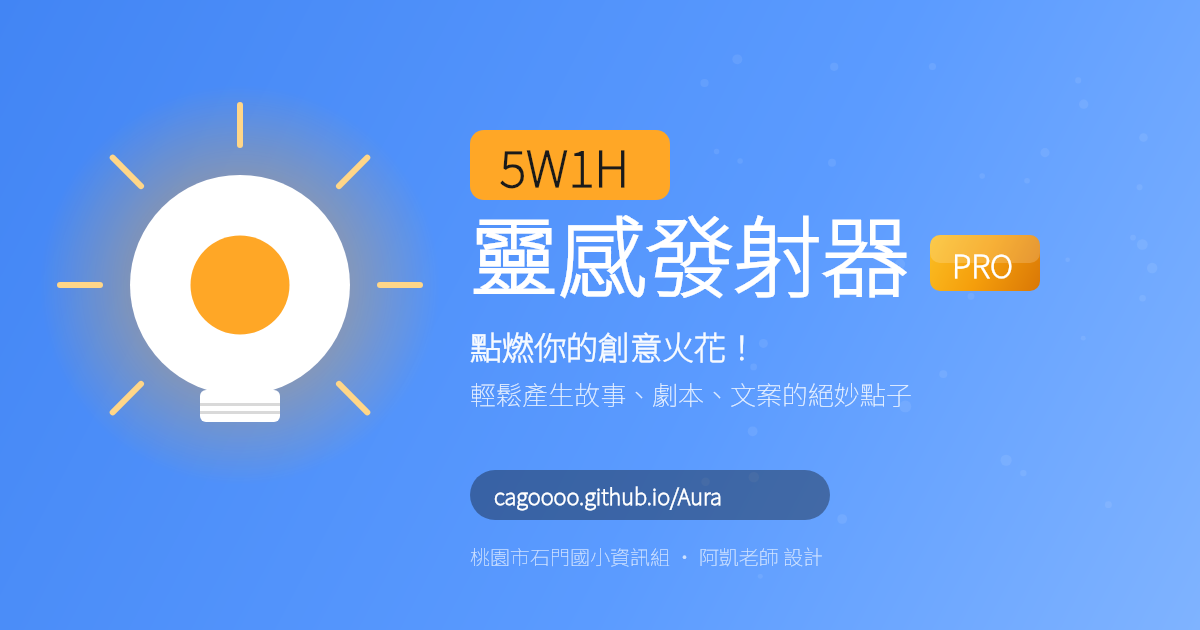
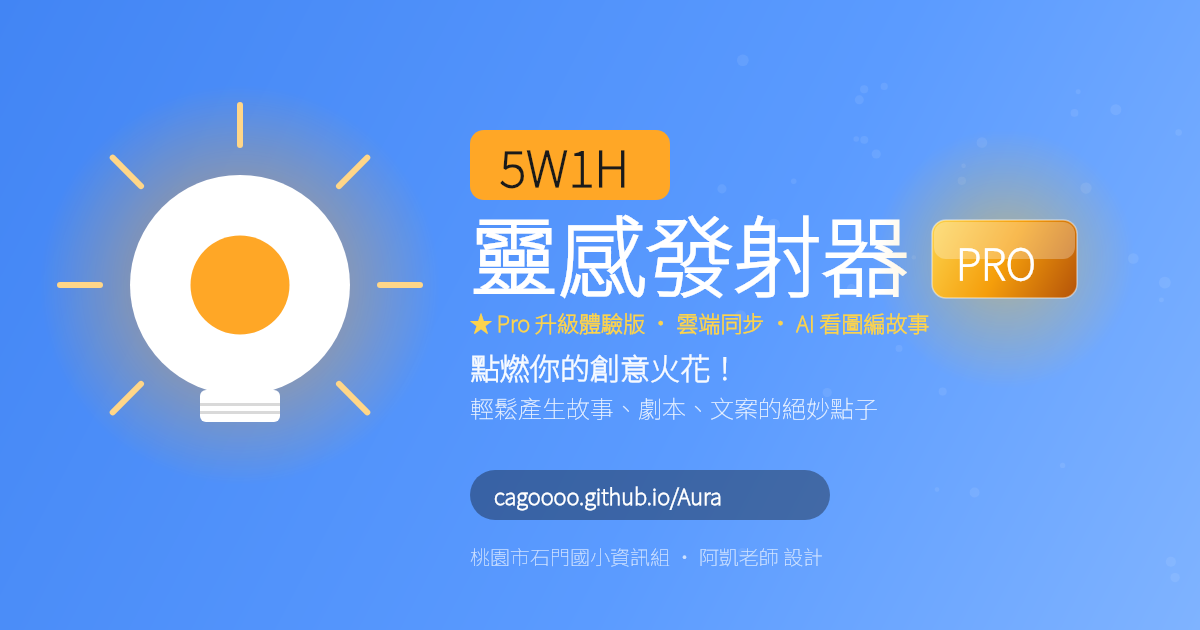
🎨 OG 預覽圖 v3：強化 PRO 徽章 + 升級副標
OG image 改良：
- PRO 徽章變大（145×78，原 110×56）
- 加溫暖光暈（radial gradient halo 圍繞徽章 130px 半徑）
- 漸層改 amber-300→500→700（深淺更明顯）
- 加 1.5px 半透明白邊增加質感
- 上半部 shine highlight 強化（28% 不透明）
- PRO 字級 32→42px

新增 Pro 副標（緊貼主標下方）：
- 文字：'★ Pro 升級體驗版 · 雲端同步 · AI 看圖編故事'
- 金色 amber-300 (#FCD34D)，700 字重
- 把核心 Pro 賣點濃縮在主視覺第二行

字型 subset 補上：
- 新看圖編 / 跨裝置同步 / 雲端永久分享連結 等字
- ★ ◆ ● ✦ 幾何符號（emoji 不在 Noto Sans TC，改用幾何符號）

metadata 描述也更新：
'✨ Pro 升級體驗版上線！全新 AI 看圖編故事、雲端跨裝置同步、永久分享連結 — 隨時隨地點燃你的創意火花...'
LINE/FB 卡片描述欄會帶到。

Cache-bust:
git sha 透過 NEXT_PUBLIC_BUILD_ID 注入 og:image?v=<sha>，部署後新
URL 會強制 LINE/FB CDN 重新抓圖。

Changed region(s): [[0.37, 0.2413, 0.925, 0.6635]]

diff --git a/src/app/layout.tsx b/src/app/layout.tsx
@@ -31,7 +31,7 @@ const BASE_PATH = process.env.NEXT_PUBLIC_BASE_PATH || '';
 const BUILD_ID = process.env.NEXT_PUBLIC_BUILD_ID ?? 'dev';
 const OG_IMAGE_URL = `${SITE_URL}/og-preview.png?v=${BUILD_ID}`;
 const SITE_TITLE = '5W1H 靈感發射器 Pro 🚀';
-const SITE_DESCRIPTION = '隨時隨地，點燃你的創意火花！使用 5W1H 靈感發射器 Pro，輕鬆產生故事、劇本、文案的絕妙點子。';
+const SITE_DESCRIPTION = '✨ Pro 升級體驗版上線！全新 AI 看圖編故事、雲端跨裝置同步、永久分享連結 — 隨時隨地點燃你的創意火花，輕鬆產生故事、劇本、文案的絕妙點子。';
 
 export const metadata: Metadata = {
   metadataBase: new URL(SITE_URL),